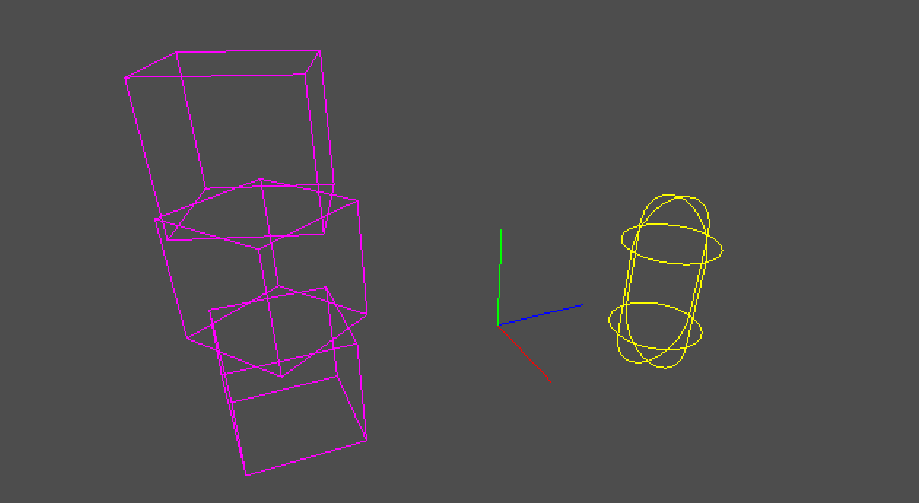
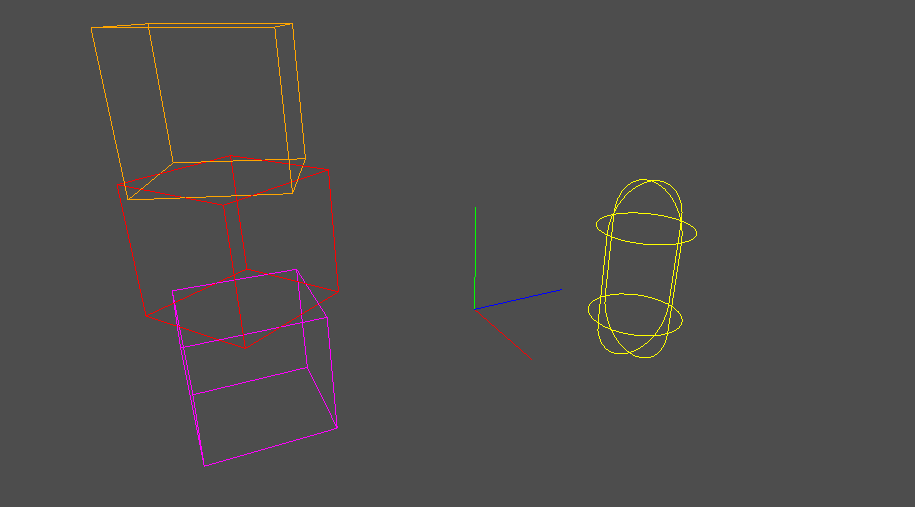
docs: add clearer example image

diff --git a/README.md b/README.md
@@ -35,12 +35,13 @@ ImmediateGizmos.lineCapsule(Vector3(0, 0, -2.0), 0.5, 2.0);
 Additionally, a *transform* can be set globally for all subsequent gizmo calls with `ImmediateGizmos.transform = ...`.
 
 ```gdscript
-ImmediateGizmos.color = Color.MAGENTA;
 for i : float in range(3):
-	var rot := Basis.from_euler(Vector3(0.0, TAU * 0.1 * i, 0.0));
-	var pos := Vector3(0.0, i, 2.0);
 	# Set a global transform!
+	var pos := Vector3(0.0, i, 2.0);
+	var rot := Basis.from_euler(Vector3(0.0, TAU * 0.1 * i, 0.0));
 	ImmediateGizmos.transform = Transform3D(rot, pos);
+	#
+	ImmediateGizmos.color = [ Color.MAGENTA, Color.RED, Color.ORANGE ][i];
 	ImmediateGizmos.lineCube(Vector3.ZERO, 0.5);
 ```
 
